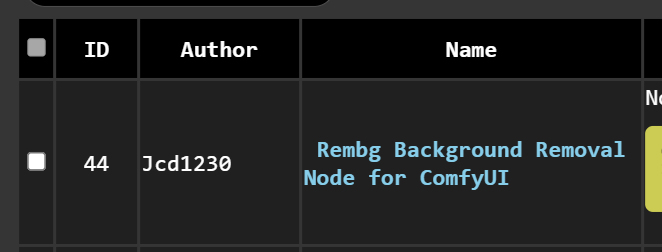
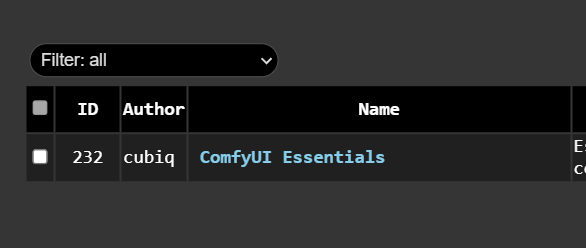
buyutme basit & arkaplan & ultra gercek fix

diff --git a/ornekler/fotograf-buyutme-basit.md b/ornekler/fotograf-buyutme-basit.md
@@ -1,0 +1,42 @@
+<a href="/">< Dizine dön</a> | <a href="/ornekler">< Örneklere dön</a>
+
+Yapay zekanın en başarılı olduğu konulardan biri de ister yapay zeka ile üretilsin isterse gerçek bir fotoğraf olsun büyütme yapabilme. Kitabımızda basit ve pro (supir) olmak üzere iki farklı metod üzerinden yapay zeka ile fotoğraflarınızı nasıl büyüteceğinizi (upscale) anlatacağız. Örneklerimizde Stable Diffusion kullanacağız (ComfyUI ve A1111). Basit yöntem ile başlıyoruz;
+
+İlk olarak basit yöntemimizde kullandığımız upscale modelimiz (Ultrasharp4+) [bu adresten](https://huggingface.co/lokCX/4x-Ultrasharp/blob/main/4x-UltraSharp.pth) indirerek
+
+ComfyUI'da;
+models\upscale_models 
+
+A1111'de ise;
+models\ESRGAN
+
+Dizinine kopyalıyoruz ve uygulamamızı yeniden başlatıyoruz (A1111).
+
+# ComfyUI üzerinde basit kullanım
+
+ComfyUI üzerinde basit olarak kullanım için bu [workdflow](../gorseller/workflow/upscale-basit.json) yüklüyoruz ve LoadImage node'unda büyteceğiz fotoğrafı seçerek "Queue Prompt" düğmesiyle fotoğrafımızı upscale ediyoruz.
+
+![alt text](../gorseller/buyutme-1.png)
+
+"Upscale Image By" node'unda scale_by seçeneği değiştirerek fotoğrafınız x kat büyütebilirsiniz (varsayılan olarak 2 kat seçili)
+
+Upscale metod kısmında farklı seçenekleri deneyerek daha kaliteli sonuçlar alabilirsiniz.
+
+Kaynak ve sonuç görsellerimiz bu şekilde oluştu;
+
+Kaynak;
+![alt text](../gorseller/buyutme_kaynak.png)
+
+![alt text](../gorseller/buyutme-sonuc-1.png)
+
+# A1111
+
+A1111 webui'da büyütme için Extras sekmesine geçiyoruz ve Upscaler 1 alanında görseldeki gibi Ultrasharp seçeneğini işaretliyoruz.
+
+![alt text](../gorseller/buyutme-2.png)
+
+Resim yükleme alanından görselimizi seçtikten sonra alt bölümdeki "Scale by" seçeneği ile kaç kat "scale to" seçeneği ile de hangi çözünürlüğe (pixel olarak) büyüteceğinizi belirleyebilirsiniz.
+
+![alt text](../gorseller/buyutme-3.png)
+
+Daha sonra "Generate" düğmesiyle işleminizi başlatabilirsiniz.

diff --git a/ornekler/arkaplan-temizleme.md b/ornekler/arkaplan-temizleme.md
@@ -2,11 +2,10 @@
 
 Bu örneğimizde yapay zeka ile herhangi bir görselin arkaplanını ücretsiz olarak temizlemeyi göreceğiz. 
 
-Örneğimizde ComfyUI kullandık, ilk olarak ComfyUI uygulamızı açarak Manager'ı açıyoruz ve "Install Custom Node" diyerek arama kısmına "Rembg" yazıyoruz.
+Örneğimizde ComfyUI kullandık, ilk olarak ComfyUI uygulamızı açarak Manager'ı açıyoruz ve "Install Custom Node" diyerek arama kısmına "essentials" yazıyoruz.
 
 
-
-Listelenen node'lardan Jcd1230 adlı kullanıcıya ait kütüphaneyi "install" diyerek kuruyoruz ve ComfyUI uygulamamızı çalıştırıyoruz.
+Listelenen node'lardan cbuiq adlı kullanıcıya ait kütüphaneyi "install" diyerek kuruyoruz ve ComfyUI uygulamamızı yeniden başlatıyoruz.
 
 ![alt text](/gorseller/remove-bg-1.png)
 
@@ -19,5 +18,7 @@ Son olarak "Load Image" node'una arkaplanını temizlemek istediğimiz görselim
 Sonuç bu şekilde oluştu;
 
 ![alt text](../gorseller/rembg-sonuc-1.png)
+
+RemBG Session bölümünde listelenen modelleri değiştirerek farklı obje/nesnelerde daha iyi sonuçlar alabilirsiniz.
 
 

diff --git a/ornekler/ultra-gercekci-insan-fotograflari-olusturma.md b/ornekler/ultra-gercekci-insan-fotograflari-olusturma.md
@@ -16,10 +16,13 @@ Gerçekçi görseller için Stable Diffusion tarafında bir çok model olmakla b
 <hr>
 
 1) Epic Realism kullanarak ilk örneğimizi oluşturalım;
+
 Promptlar;
+
 `(Soft Lighting Photography), Mirror selfie , a 40 year old gorgeous man with beard, slight smile , detailed skin face and eyes , natural lighting , at home , long hair, messy hair, cleavage, film grain, low contrast, natural face, dark blonde hair , dark blue eyes, dark circles under eyes` 
 
-Negatif promptlarımız
+Negatif promptlarımız;
+
 `worst quality, extra fingers, missing fingers, poorly rendered hands, mutation, deformed iris, deformed pupils, deformed limbs, missing limbs, amputee, amputated limbs, watermark, logo , text, piercing, big eyes , teeth, cartoon, shallow depth of field, makeup` 
 
 

diff --git a/README.md b/README.md
@@ -83,6 +83,8 @@ Dizin
       <li><a href="/ornekler/ultra-gercekci-insan-fotograflari-olusturma.md">Ultra gerçek kişi fotoğrafları oluşturma</a></li>
       <li><a href="/ornekler/tarihi-karakter-cizimlerini-fotografa-donusturme.md">Tarihi karakter resimlerini fotoğrafa dönüştürme</a></li>
       <li><a href="/ornekler/arkaplan-temizleme.md">Arkaplan temizleme</a></li>
+      <li><a href="/ornekler/fotograf-buyutme-basit.md">Fotoğraf Büyütme (Basit)</a></li>
+      <li><a href="/ornekler/fotograf-buyutme-supir.md">Fotoğraf Büyütme (SUPIR)</a></li>
       <li>Gerçekçi fotoğraflar oluşturma</li>
       <li>Fotoğraftaki insanların pozlarını belirleme</li>
       <li>Depth ile 3D derinlikten fotoğraf tasarımı</li>
